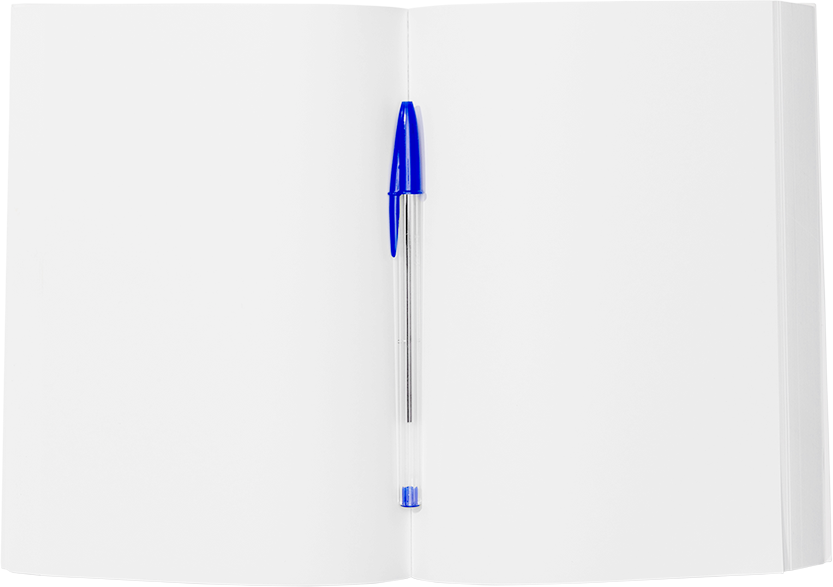
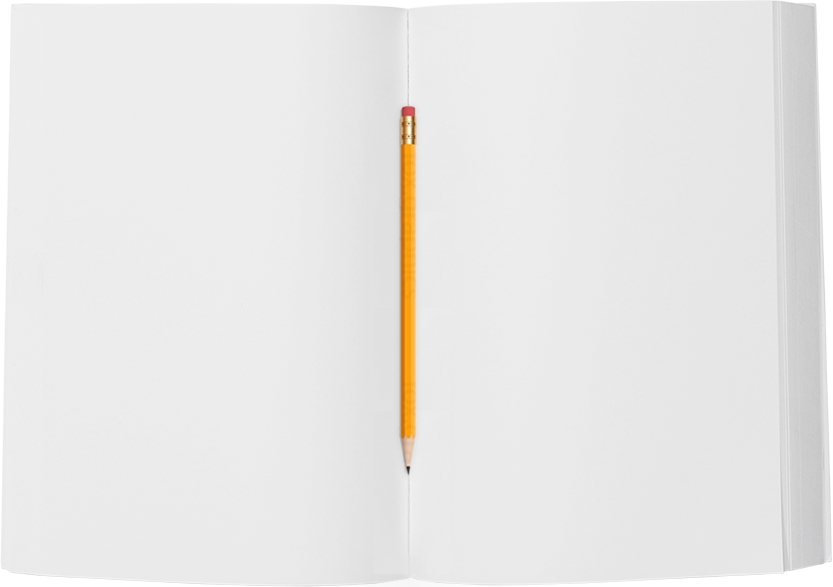
S04P31B107-124 BE_0520 [fix] : 방명록 배경&펜 사진 변경
Former-commit-id: b806a6acbb04753ffce2f019ccecdfb07138fc84

Changed region(s): [[0.4682, 0.1533, 0.5306, 0.7973], [0.4682, 0.8279, 0.4994, 0.8893]]

diff --git a/frontend/src/css/GuestBook.css b/frontend/src/css/GuestBook.css
@@ -7,8 +7,9 @@
   align-items: center;
   width: 100%;
   height: 100vh;
-  background-color: var(--color-guestbook);
   font-family: AppleSDGothicNeoB;
+  background-image: url('../../public/Image/gb_background.jpg');
+  background-size: cover;
 }
 
 .guestbook .h1 {
